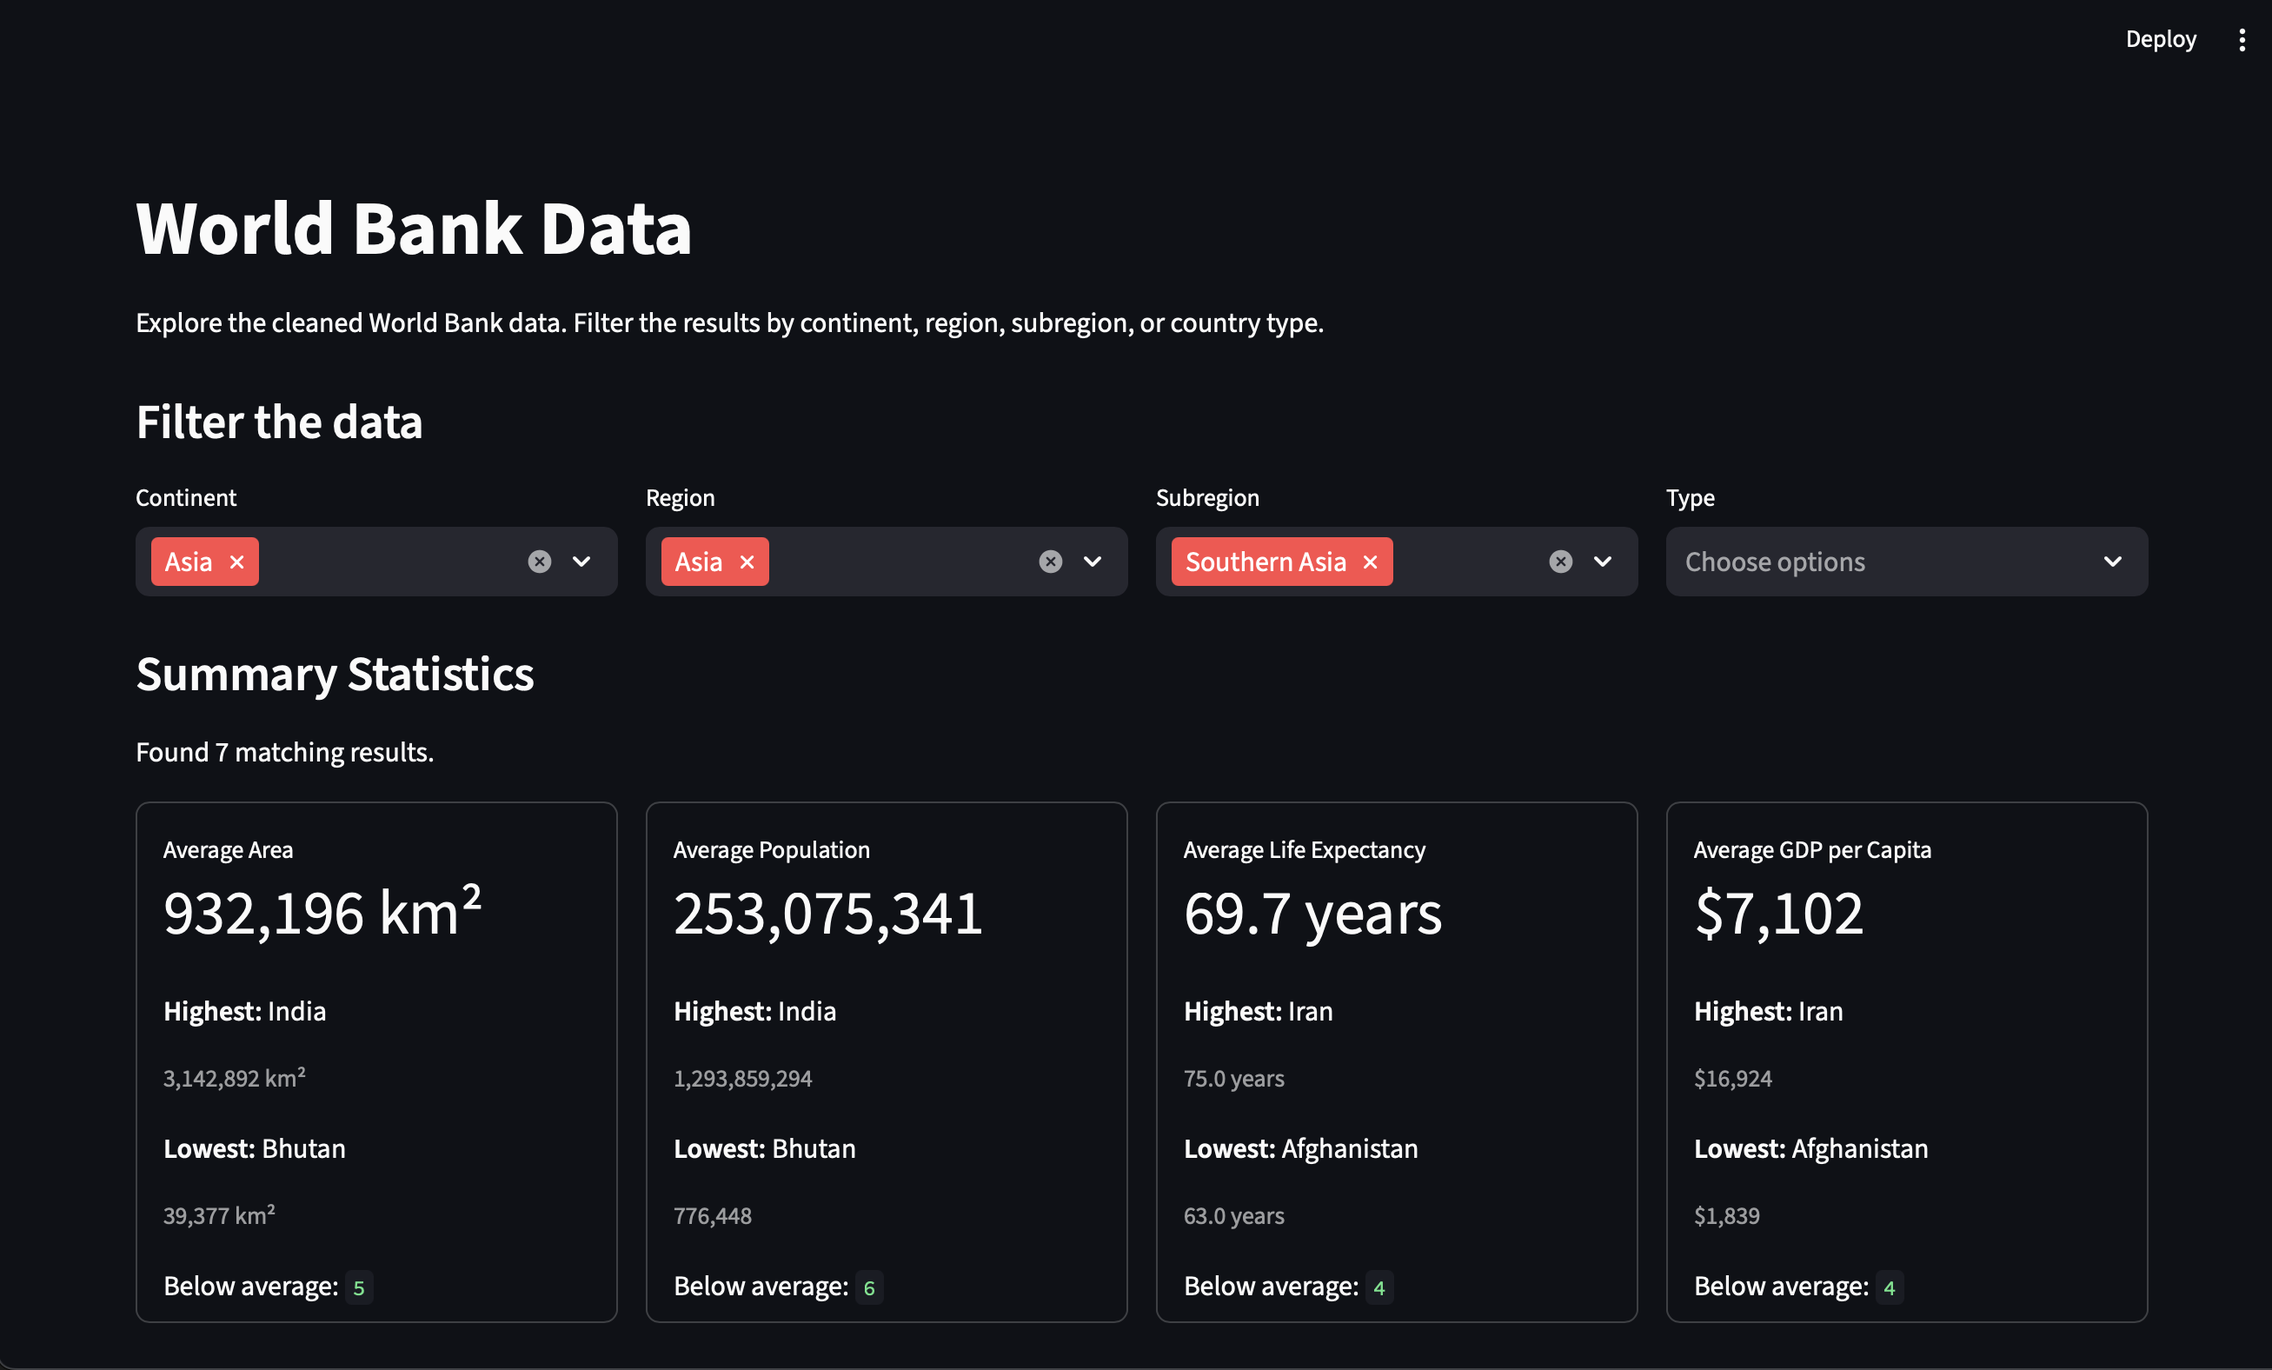
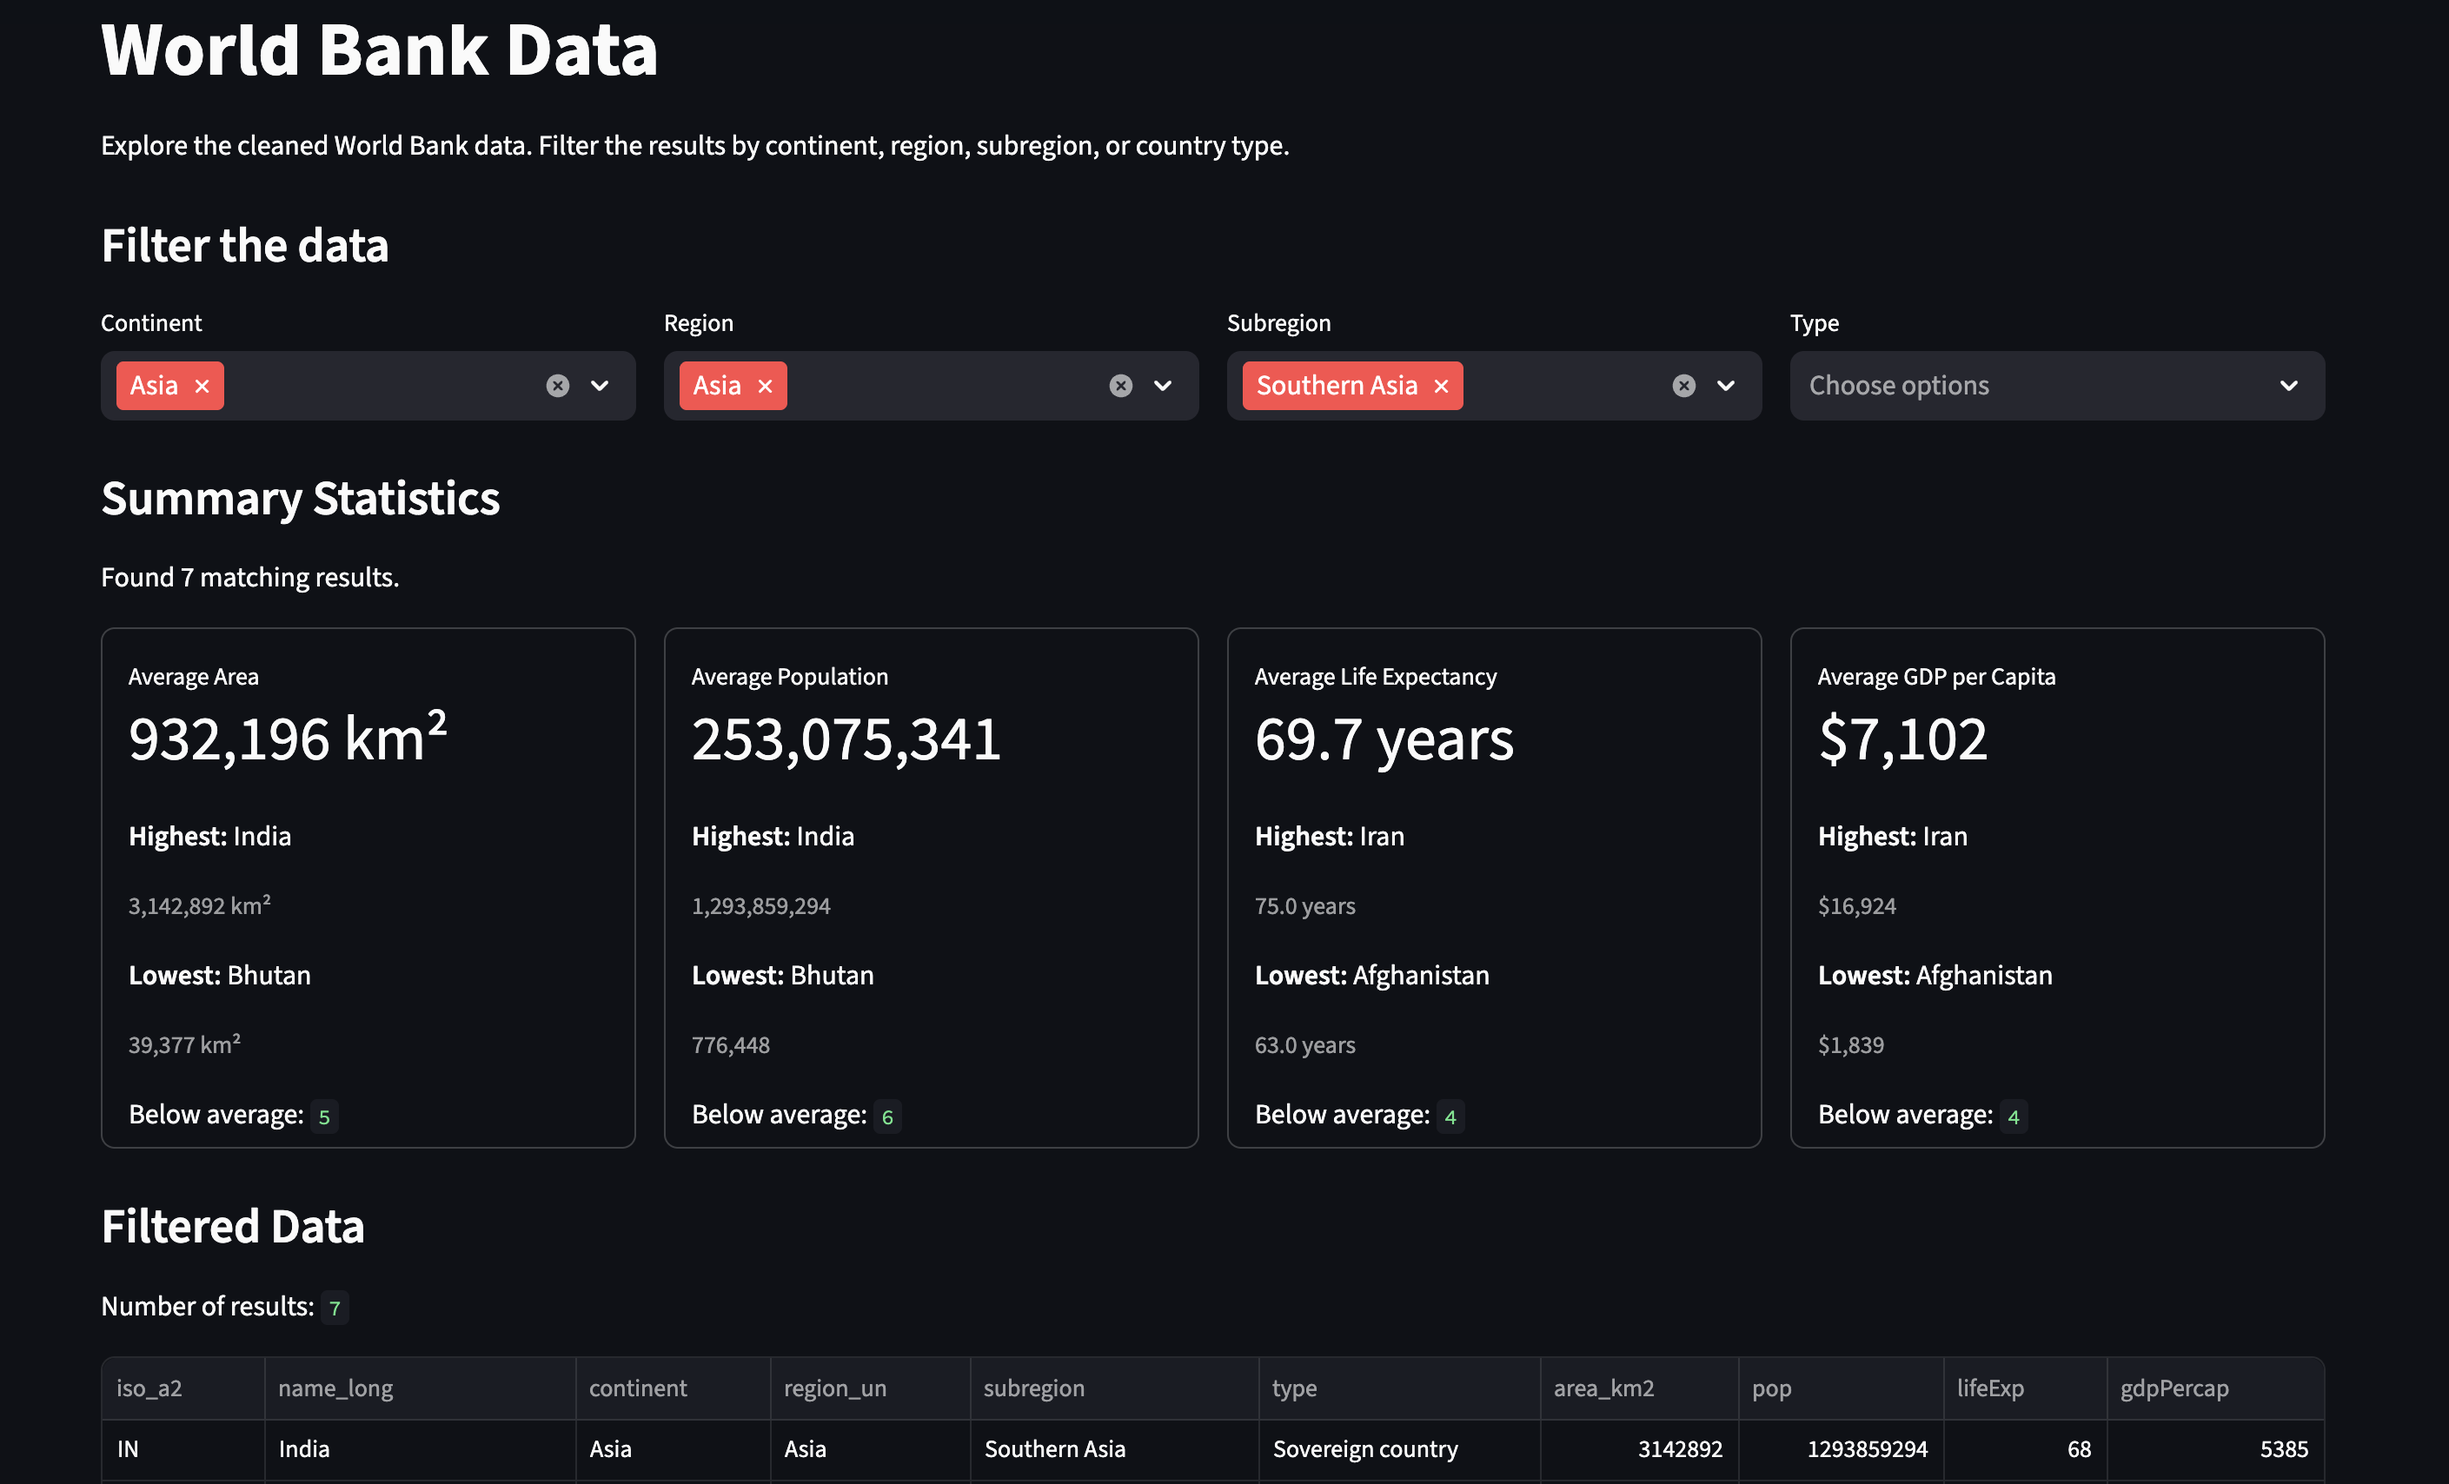
update readme

diff --git a/README.md b/README.md
@@ -13,33 +13,60 @@ The project uses:
 - **Streamlit** to build the interactive interface;
 - **pytest** to test the main functions.
 
-The project can:
+## Key Features
 
-- remove missing, duplicated, and invalid records;
-- validate the final data before exporting it;
-- export the cleaned data as a CSV file;
-- answer the four questions included in the challenge;
-- filter the data using one or more conditions;
-- display summary statistics and filtered records;
-- test the cleaning, analysis, and interface logic.
+- Run the complete workflow with one command using `run.py`.
+- Create and save a cleaned version of the original dataset.
+- Apply numeric validation limits based on reviewed 2014 reference data.
+- Answer the four questions included in the challenge.
+- Launch a local interactive interface automatically.
+- Filter the data using one or more options.
+- Update the results and summary cards automatically when filters change.
+- Show the average, highest and lowest values, their related countries or areas, and the below-average count for each numeric field.
+- View, sort, and download the filtered results.
+- Test the cleaning, analysis, and interface logic with pytest.
+
+## Main Results
+
+### Data Cleaning
+
+| Result | Count |
+|---|---:|
+| Original data | 189 rows, 12 columns |
+| Rows with missing values removed | 18 |
+| Duplicated columns removed | 1 |
+| Duplicated rows removed | 9 |
+| Invalid numeric rows removed | 19 |
+| Final cleaned data | 143 rows, 10 columns |
+
+### Required Questions
+
+| Question | Result |
+|---|---|
+| Continent with the most countries or areas | Africa — 41 |
+| UN region with the largest combined area | Americas — 39,880,488 km² |
+| Country or area with the highest life expectancy | Japan — 84 years |
+| Subregion with the highest average GDP per capita | Western Europe — $56,884.60 |
+| Subregion with the lowest average GDP per capita | Eastern Africa — $1,796.45 |
 
 
 ## Interface
 
-The interface allows users to:
-
-- select one or more continents, regions, subregions, and country or area types;
-- update the results automatically when a filter changes;
-- view summary statistics cards;
-- see the highest and lowest value and its country or area;
-- see how many records are below the average for each numeric field;
-- view the matching records in an interactive table;
-- sort the table by different columns;
-- open the table in full-screen mode;
-- download the filtered table to local device;
-- warning if the result is empty;
 
 ![World Data interface](images/interface.png)
+
+
+| Feature | Description |
+|---|---|
+| Multiple filters | Filter by one or more continents, regions, subregions, and country or area types |
+| Automatic updates | Refresh the results whenever a filter changes |
+| Summary cards | Show summary statistics for area, population, life expectancy, and GDP per capita |
+| Highest and lowest values | Show the highest and lowest values with their related countries or areas |
+| Below-average count | Show how many records are below the average for each numeric field |
+| Interactive table | Display all records matching the selected filters |
+| Table controls | Sort the results by column or view the table in full-screen mode |
+| CSV download | Download the filtered results as a CSV file |
+| No-result handling | Display a warning when the selected filters return no records |
 
 
 ## Project Structure
@@ -77,13 +104,14 @@ WorldDataChallenge/
 
 The project follows seven main stages:
 
-1. **Review** — inspect the original data structure and other basica informations.
-2. **Prepare** — remove spaces around text and define missing values and mark them.
-3. **Clean** — remove missing records, duplicated values, and columns that are not included in the requirement.
-4. **Standardise** — convert numeric columns to the required types, define accepted numeric ranges, and remove invalid records.
-5. **Validate and export** — check the final columns, data types, ISO codes, duplicates, and numeric ranges before saving.
-6. **Analyse** — group the cleaned data by continent, region, and subregion, then calculate counts, totals, averages, and the required highest or lowest results.
-7. **Present** — create filter options from the cleaned data, apply individual or combined selections, calculate summary statistics for the filtered subset, and display the results in consistent summary cards and an interactive table.
+1. **Load and review** — load the original CSV and inspect its structure, columns, types, and values.
+2. **Prepare** — remove spaces around text and mark missing values without losing Namibia's `NA` code.
+3. **Clean** — remove missing records, duplicated rows and columns, and columns that are not required.
+4. **Standardise** — convert numeric columns to integers, define accepted ranges, and remove invalid records.
+5. **Validate and export** — check the final columns, types, ISO codes, duplicates, and numeric ranges before saving `worldData_cleaned.csv`.
+6. **Analyse** — group the cleaned data by continent, region, and subregion, then calculate the counts, totals, averages, and required results.
+7. **Present** — apply individual or combined filters, calculate summary statistics, and display the results in summary cards and an interactive table.
+
 
 
 ## Process
@@ -190,7 +218,7 @@ Pytest will find and run all test files in the `tests/` folder.
 | Missing values | Empty text, `#N/A`, or a pandas missing value. `NA` is excluded because it is Namibia's ISO code | Remove the complete row |
 | ISO code format | The code must contain two uppercase letters and appear only once | Stop validation if an invalid or repeated code remains |
 | Duplicates | Completely repeated rows or columns containing the same values | Keep the first copy and remove the repeated copy |
-| Unexpected data type | The six descriptive columns must contain text. `area_km2`, `pop`, `lifeExp`, and `gdpPercap` are stored as integers | Convert text columns to strings, round valid numeric values, and convert them to integers. Stop and warning if a numeric value cannot be converted |
+| Unexpected data type | The six descriptive columns must contain text. `area_km2`, `pop`, `lifeExp`, and `gdpPercap` must contain numeric values | Convert text columns to strings and numeric columns to integers. Stop with an error if a numeric value cannot be converted |
 | Invalid numeric range | A numeric value is below or above the accepted limits selected from reviewed 2014 reference data | Remove the complete row |
 | Unneeded columns | Columns that are not part of the required output, such as the old CSV index | Remove the column |
 
@@ -218,10 +246,10 @@ The summary is calculated separately for:
 | Summary item | Definition |
 |---|---|
 | Number of results | Number of unique `iso_a2` codes in the filtered data |
-| Average | The sum of all values divided by the number of filtered records |
-| Highest | Highest value and its related area |
-| Lowest | Lowest value and its related area |
-| Below average | Number of records with a value lower than the arithmetic mean |
+| Average | Sum of all values divided by the number of filtered records |
+| Highest | Highest value and its related country or area |
+| Lowest | Lowest value and its related country or area |
+| Below average | Number of records with a value lower than the average |
 
 
 
@@ -238,27 +266,26 @@ maintained authoritative reference data.
 
 ### Extending the Tests
 
-I first wrote unit tests using normal input to check that each function worked.
-After finding unusual values in the dataset, I extended the tests to include
-invalid and boundary cases.
+I first tested each function with normal input. After finding unusual values
+during manual review, I added invalid and boundary cases to confirm that the
+cleaning limits and empty filter results were handled correctly.
 
-These tests check values at and outside the accepted numeric limits, repeated
-ISO codes, missing values, and filter combinations with no results. This
-helped confirm that the cleaning and interface rules worked as intended.
 
-## Limitation
+## Limitations
+
 - **Limited reusability** — the program is closely tied to the structure of
-  `worldData.csv`. Using the program with a different CSV structure would require manual changes to the cleaning functions and tests.
+  `worldData.csv`. A different CSV structure would require manual changes to
+  the cleaning functions and tests.
 
-- **External validation** — The program does not compare each record with
-  an authoritative external source, so it checks data plausibility rather
-  than factual accuracy.
+- **External validation** — the program does not compare each record with an
+  authoritative external source. It checks whether values are reasonable but
+  cannot confirm that they are factually accurate.
 
 - **Possible selection bias** — rows containing missing or invalid values are
-  removed completely.Their removal may affect the final statistics.
+  removed completely. Their removal may affect the final statistics.
 
-- **Numeric precision** — decimal values are rounded and stored as integers. 
-  This causes some precision to be lost.
+- **Numeric precision** — decimal values are rounded and stored as integers,
+  which causes some precision to be lost.
 
 
 ## Possible Improvements
@@ -272,3 +299,14 @@ helped confirm that the cleaning and interface rules worked as intended.
 - **Review removed records** — save removed records and their removal reasons
   in a separate file. They can then be checked before they are corrected or
   permanently removed.
+
+
+## References
+
+The following World Bank indicators were reviewed when setting the numeric
+validation limits:
+
+- [Surface area (sq. km)](https://data.worldbank.org/indicator/AG.SRF.TOTL.K2)
+- [Population, total](https://data.worldbank.org/indicator/SP.POP.TOTL)
+- [Life expectancy at birth, total](https://data.worldbank.org/indicator/SP.DYN.LE00.IN)
+- [GDP per capita (current US$)](https://data.worldbank.org/indicator/NY.GDP.PCAP.CD)
